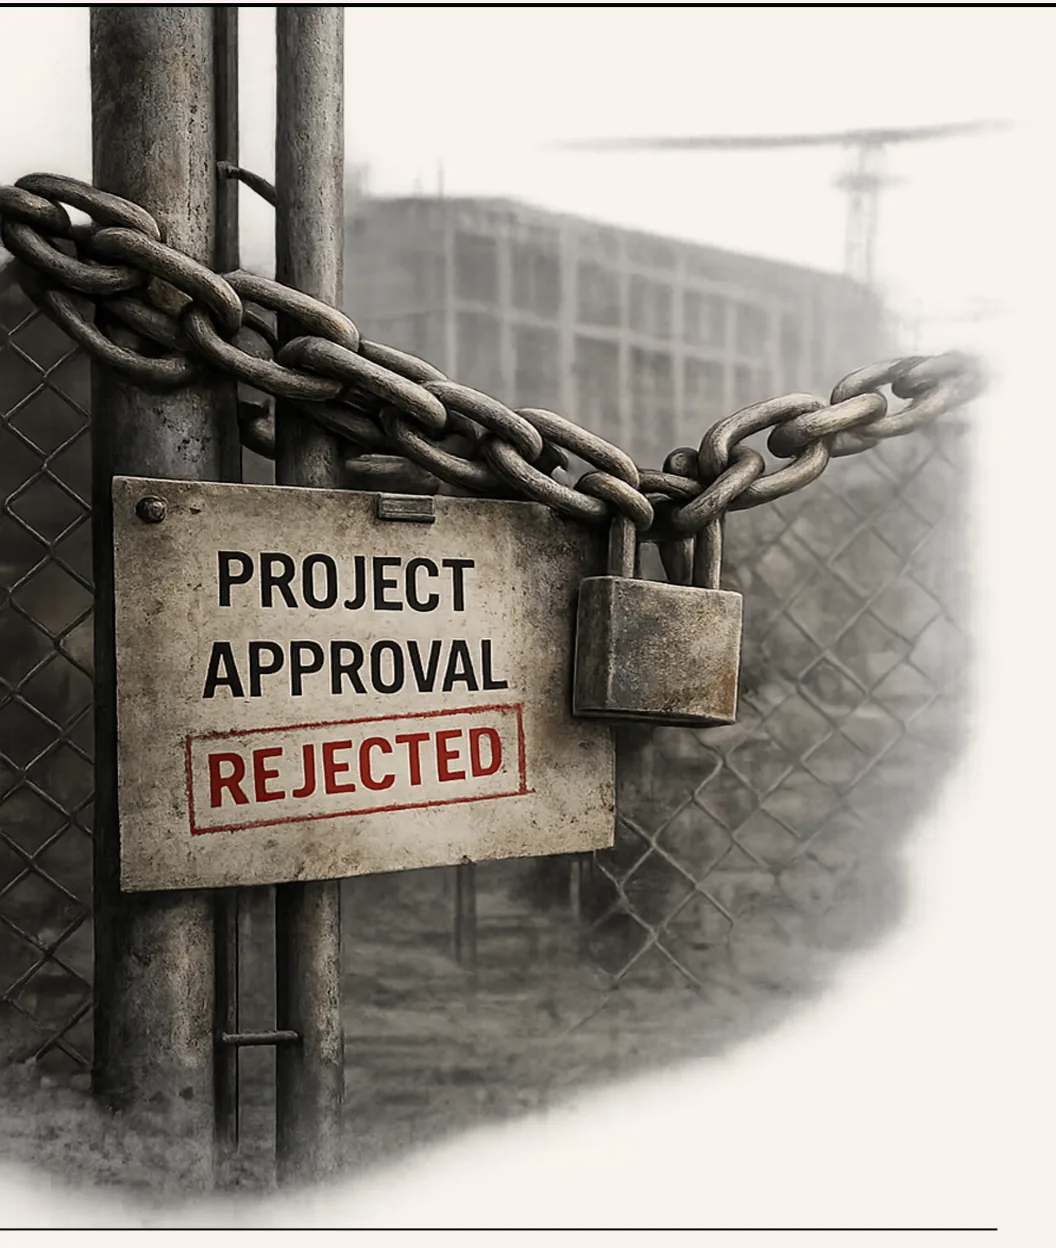
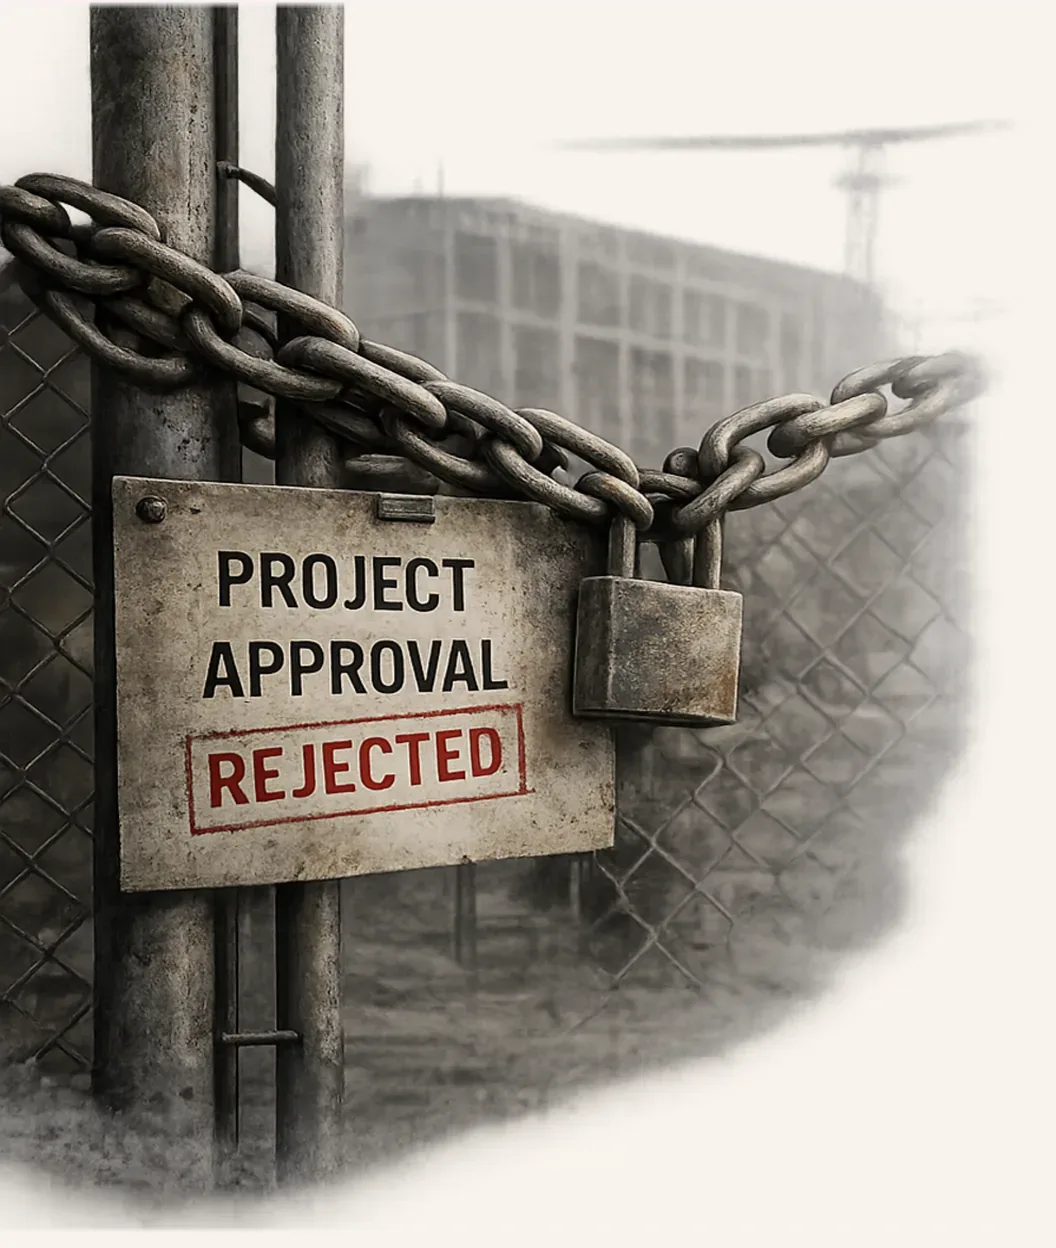
Switch from paginated sheets to continuous scroll layout
- Sections now stack seamlessly: no gaps, no sheet shadows, body
  background merges with the cream canvas
- Dark sections (p14) extend edge-to-edge across the viewport
- Remove per-page running headers and page-number chips
- Rail nav becomes unlabeled dots with section-title tooltips
- Retune p5 gate and p12 CHP bleeds to the new section padding
- Erase booklet header rules baked into the p5 gate crop

Changed region(s): [[0.0, 0.0, 1.0, 0.0312]]

diff --git a/styles.css b/styles.css
@@ -64,8 +64,7 @@
 html { scroll-behavior: smooth; }
 body {
   margin: 0;
-  background: var(--paper);
-  background-image: radial-gradient(ellipse at 50% -10%, #efe9dd 0%, var(--paper) 60%);
+  background: var(--cream);
   color: var(--ink);
   font-family: var(--body);
   font-size: var(--body-fs);
@@ -88,41 +87,30 @@ a { color: var(--red); }
   display: flex; flex-direction: column; gap: 6px; z-index: 40;
 }
 #rail a {
-  width: 22px; height: 22px; border-radius: 50%;
-  display: grid; place-items: center;
-  font: 600 10px/1 var(--label);
-  color: #6f675a; text-decoration: none;
-  background: rgba(249,244,238,0.75); border: 1px solid #c9c0b0;
+  width: 11px; height: 11px; border-radius: 50%;
+  text-decoration: none;
+  background: rgba(249,244,238,0.75); border: 1px solid #b3a992;
   transition: all 120ms ease;
 }
 #rail a:hover { border-color: var(--red); color: var(--red); }
 #rail a.on { background: var(--red-bright); border-color: var(--red-bright); color: #fff; }
 @media (max-width: 900px) { #rail { display: none; } }
 
-/* ---------- page sheets ---------- */
-main { display: flex; flex-direction: column; align-items: center; gap: clamp(14px, 2.5vw, 30px); padding: clamp(14px, 2.5vw, 30px) clamp(8px, 2vw, 24px); }
+/* ---------- continuous flow: sections stack seamlessly ---------- */
+main { display: flex; flex-direction: column; align-items: center; }
 .page {
   width: 100%; max-width: 1010px;
   background: var(--cream);
-  box-shadow: 0 2px 6px rgba(40,30,15,0.18), 0 14px 40px -18px rgba(40,30,15,0.35);
-  padding: clamp(20px, 4.5vw, 52px);
+  padding: clamp(28px, 5vw, 60px) clamp(20px, 4.5vw, 52px);
   position: relative;
   overflow: hidden;
 }
-.page.dark { background: #000; color: #f4efe6; }
-
-/* running header */
-.ph { display: flex; align-items: center; gap: 14px; margin-bottom: clamp(18px, 3vw, 34px); }
-.ph .chip {
-  background: var(--red-bright); color: #fff;
-  font: 500 1.25rem/1 var(--label);
-  min-width: 2.1rem; padding: 0.42rem 0.5rem; text-align: center;
+.page.dark {
+  background: #000; color: #f4efe6;
+  /* extend the dark band across the full viewport width */
+  box-shadow: 0 0 0 100vmax #000;
+  clip-path: inset(0 -100vmax);
 }
-.ph .rt { font: 500 0.92rem/1 var(--label); letter-spacing: 0.14em; white-space: nowrap; }
-.ph .rule { flex: 1; height: 2px; background: var(--ink); }
-.page.dark .ph .rule { background: #f4efe6; }
-/* odd spreads: number on the right */
-.ph.rev { flex-direction: row-reverse; }
 
 /* ---------- shared type ---------- */
 .h1 {
@@ -245,7 +233,7 @@ main { display: flex; flex-direction: column; align-items: center; gap: clamp(14
 .mapbox .yr { font: 500 1.3rem/1 var(--label); border-bottom: 3px solid var(--red-bright); display: inline-block; padding-bottom: 3px; margin: 0.6em 0 0.4em; }
 .mapbox .note { font-size: 0.74rem; text-align: center; color: #5c5648; margin-top: 1em; }
 
-.gate-bleed { margin: calc(-1 * clamp(18px, 3vw, 34px) - clamp(20px, 3.5vw, 44px)) 0 10px calc(-1 * clamp(20px, 4.5vw, 52px)); }
+.gate-bleed { margin: calc(-1 * clamp(28px, 5vw, 60px)) 0 10px calc(-1 * clamp(20px, 4.5vw, 52px)); }
 @media (max-width: 759px) { .gate-bleed { margin-top: -10px; } }
 
 /* =================== P6 =================== */
@@ -407,7 +395,7 @@ main { display: flex; flex-direction: column; align-items: center; gap: clamp(14
 .nullity li { padding-left: 1.2em; position: relative; margin-bottom: 0.7em; }
 .nullity li::before { content: '❯'; position: absolute; left: 0; color: var(--red); font-weight: 700; }
 
-.chp-bleed { margin-left: calc(-1 * clamp(20px, 4.5vw, 52px)); margin-bottom: calc(-1 * clamp(20px, 4.5vw, 52px)); align-self: stretch; }
+.chp-bleed { margin-left: calc(-1 * clamp(20px, 4.5vw, 52px)); margin-bottom: calc(-1 * clamp(28px, 5vw, 60px)); align-self: stretch; }
 .chp-bleed img { height: 100%; object-fit: cover; }
 @media (max-width: 759px) { .chp-bleed { margin-right: calc(-1 * clamp(20px, 4.5vw, 52px)); } }
 

diff --git a/index.html b/index.html
@@ -16,7 +16,7 @@
 
 <div id="progress" role="presentation"></div>
 
-<nav id="rail" aria-label="Pages"></nav>
+<nav id="rail" aria-label="Sections"></nav>
 
 <main>
 
@@ -33,7 +33,6 @@
 
 <!-- ============================ PAGE 2 ============================ -->
 <section class="page" id="p2">
-  <header class="ph"><span class="chip">2</span><span class="rt">THE MARCH 19 PROCESS</span><span class="rule"></span></header>
 
   <div class="cols cols-2">
     <div>
@@ -58,7 +57,6 @@
 
 <!-- ============================ PAGE 3 ============================ -->
 <section class="page" id="p3">
-  <header class="ph rev"><span class="chip">3</span><span class="rt">THE MARCH 19 PROCESS</span><span class="rule"></span></header>
 
   <h2 class="h1">What is the<br><span class="r">March&nbsp;19</span> Process?</h2>
   <p class="kick">From authoritarian competition to a civilian coup</p>
@@ -82,7 +80,6 @@
 
 <!-- ============================ PAGE 4 ============================ -->
 <section class="page" id="p4">
-  <header class="ph"><span class="chip">4</span><span class="rt">THE MARCH 19 PROCESS</span><span class="rule"></span></header>
 
   <div class="cols cols-2">
     <div>
@@ -119,7 +116,6 @@
 
 <!-- ============================ PAGE 5 ============================ -->
 <section class="page" id="p5">
-  <header class="ph rev"><span class="chip">5</span><span class="rt">THE MARCH 19 PROCESS</span><span class="rule"></span></header>
 
   <div class="cols cols-2r">
     <div>
@@ -158,7 +154,6 @@
 
 <!-- ============================ PAGE 6 ============================ -->
 <section class="page" id="p6">
-  <header class="ph"><span class="chip">6</span><span class="rt">THE MARCH 19 PROCESS</span><span class="rule"></span></header>
 
   <div class="cols cols-2">
     <div>
@@ -211,7 +206,6 @@
 
 <!-- ============================ PAGE 7 ============================ -->
 <section class="page" id="p7">
-  <header class="ph rev"><span class="chip">7</span><span class="rt">THE MARCH 19 PROCESS</span><span class="rule"></span></header>
 
   <div class="cols cols-2">
     <div>
@@ -250,7 +244,6 @@
 
 <!-- ============================ PAGE 8 ============================ -->
 <section class="page" id="p8">
-  <header class="ph"><span class="chip">8</span><span class="rt">THE MARCH 19 PROCESS</span><span class="rule"></span></header>
 
   <div class="cols cols-2">
     <div>
@@ -285,7 +278,6 @@
 
 <!-- ============================ PAGE 9 ============================ -->
 <section class="page" id="p9">
-  <header class="ph rev"><span class="chip">9</span><span class="rt">THE MARCH 19 PROCESS</span><span class="rule"></span></header>
 
   <div class="cols cols-2r" style="align-items:center">
     <div>
@@ -418,7 +410,6 @@
 <section class="page" id="p11">
   <div class="bars" aria-hidden="true"></div>
   <div class="inner">
-    <header class="ph rev"><span class="chip">11</span><span class="rt">THE MARCH 19 PROCESS</span><span class="rule"></span></header>
 
     <h2 class="h1">The conditions of <span class="m">detention</span></h2>
     <p style="font-weight:600">Systematic practices inside prisons raise serious human rights concerns.</p>
@@ -452,7 +443,6 @@
 
 <!-- ============================ PAGE 12 ============================ -->
 <section class="page" id="p12">
-  <header class="ph"><span class="chip">12</span><span class="rt">THE MARCH 19 PROCESS</span><span class="rule"></span></header>
 
   <div class="cols cols-2">
     <div>
@@ -496,7 +486,6 @@
 
 <!-- ============================ PAGE 13 ============================ -->
 <section class="page" id="p13">
-  <header class="ph rev"><span class="chip">13</span><span class="rt">THE MARCH 19 PROCESS</span><span class="rule"></span></header>
 
   <h2 class="h1">Who can still <span class="r">run?</span></h2>
   <p>Democratic elections require real competition. But step by step,<br>potential opponents are removed from the field—long before election day.</p>
@@ -531,7 +520,6 @@
 
 <!-- ============================ PAGE 14 (dark) ============================ -->
 <section class="page dark" id="p14">
-  <header class="ph"><span class="chip">14</span><span class="rt">THE MARCH 19 PROCESS</span><span class="rule"></span></header>
 
   <div class="cols p14-top">
     <div>
@@ -603,7 +591,6 @@
 
 <!-- ============================ PAGE 15 ============================ -->
 <section class="page" id="p15">
-  <header class="ph rev"><span class="chip">15</span><span class="rt">THE MARCH 19 PROCESS</span><span class="rule"></span></header>
 
   <h2 class="h1">Why Türkiye's democracy<br><span class="m">matters beyond Türkiye</span></h2>
   <p class="lede">Türkiye's democratic trajectory affects not only its own citizens, but regional security, international alliances and the rules-based international order.</p>
@@ -675,14 +662,15 @@
 
 <script>
 (function () {
-  // build page rail
+  // build section rail
   var rail = document.getElementById('rail');
   var pages = Array.prototype.slice.call(document.querySelectorAll('main > .page'));
-  pages.forEach(function (p, i) {
+  pages.forEach(function (p) {
     var a = document.createElement('a');
     a.href = '#' + p.id;
-    a.textContent = i + 1;
-    a.title = 'Page ' + (i + 1);
+    var h = p.querySelector('.h1, h1');
+    a.title = p.getAttribute('aria-label') || (h ? h.textContent.replace(/\s+/g, ' ').trim() : p.id);
+    a.setAttribute('aria-label', a.title);
     rail.appendChild(a);
   });
   var links = rail.querySelectorAll('a');